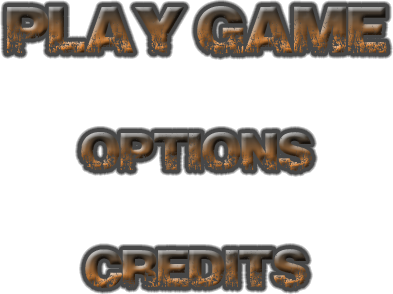
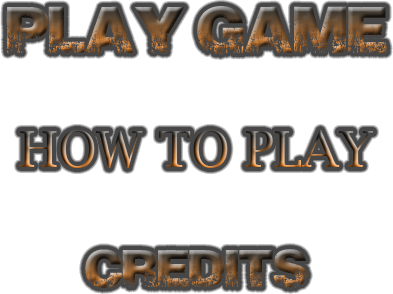
Not working how to page. Something is causing a crash..

Changed region(s): [[0.0305, 0.398, 0.9771, 0.6122]]

diff --git a/wsTotal/TotalAnnihilationRoadRage/src/com/totalannihilationroadrage/HowToScreen.java b/wsTotal/TotalAnnihilationRoadRage/src/com/totalannihilationroadrage/HowToScreen.java
@@ -1,0 +1,67 @@
+package com.totalannihilationroadrage;
+
+import com.framework.Game;
+import com.framework.Graphics;
+import com.framework.Input;
+import com.framework.Screen;
+
+import java.util.ArrayList;
+import java.util.List;
+import java.util.Random;
+
+/**
+ * Created by Brandon on 2014-06-27.
+ */
+
+public class HowToScreen extends Screen {
+    public HowToScreen(Game game) {
+        super(game);
+    }
+
+    @Override
+    public void update(float deltaTime) {
+        List<Input.TouchEvent> touchEvents = game.getInput().getTouchEvents();
+        game.getInput().getKeyEvents();
+
+        int len = touchEvents.size();
+        for(int i = 0; i < len; i++) {
+            Input.TouchEvent event = touchEvents.get(i);
+            if(event.type == Input.TouchEvent.TOUCH_UP) {
+                if(inBounds(event, 1738, 1002, 127, 71) ) {
+
+                    return;
+                }
+            }
+        }
+    }
+
+    private boolean inBounds(Input.TouchEvent event, int x, int y, int width, int height) {
+        if(event.x > x && event.x < x + width - 1 &&
+                event.y > y && event.y < y + height - 1)
+            return true;
+        else
+            return false;
+    }
+
+    @Override
+    public void present(float deltaTime) {
+        Graphics g = game.getGraphics();
+        g.drawPixmap(Assets.howToScreen, 0, 0);
+        g.drawPixmap(Assets.nextpage, 1738, 1002);
+    }
+
+    @Override
+    public void pause() {
+
+    }
+
+    @Override
+    public void resume() {
+
+    }
+
+    @Override
+    public void dispose() {
+
+    }
+}

diff --git a/wsTotal/TotalAnnihilationRoadRage/src/com/totalannihilationroadrage/LoadingScreen.java b/wsTotal/TotalAnnihilationRoadRage/src/com/totalannihilationroadrage/LoadingScreen.java
@@ -12,11 +12,14 @@ public class LoadingScreen extends Screen {
 
     public void update(float deltaTime) {
         Graphics g = game.getGraphics();
-        Assets.background = g.newPixmap("Titlescreen1920x1080.png", PixmapFormat.RGB565);
+        Assets.background = g.newPixmap("Titlescreen1920x1080.png", PixmapFormat.ARGB4444);
         Assets.mainMenu = g.newPixmap("buttons2.png", PixmapFormat.ARGB4444);
         Assets.overWorldUI = g.newPixmap("OverworldUI.png", PixmapFormat.ARGB4444);
-        Assets.gameOver = g.newPixmap("gameover.png", PixmapFormat.RGB565);
+        Assets.gameOver = g.newPixmap("gameover.png", PixmapFormat.ARGB4444);
         Assets.gameOvermenu = g.newPixmap("mainmenu.png", PixmapFormat.ARGB4444);
+        Assets.howToScreen = g.newPixmap("howToScreen1.png", PixmapFormat.ARGB4444);
+
+        //Assets.nextpage = g.newPixmap("moveToNextPage.png", PixmapFormat.ARGB4444);
         //Assets.logo = g.newPixmap("logo.png", PixmapFormat.ARGB4444);
        // Assets.buttons = g.newPixmap("buttons.png", PixmapFormat.ARGB4444);
         //Assets.help1 = g.newPixmap("help1.png", PixmapFormat.ARGB4444);

diff --git a/wsTotal/TotalAnnihilationRoadRage/src/com/totalannihilationroadrage/MainMenuScreen.java b/wsTotal/TotalAnnihilationRoadRage/src/com/totalannihilationroadrage/MainMenuScreen.java
@@ -29,13 +29,11 @@ public class MainMenuScreen extends Screen {
                         //Assets.click.play(1);
                     return;
                 }
-                /*
+
                 if(inBounds(event, 861, 466 + 68, 393, 92) ) {
-                    //game.setScreen(new HighscoreScreen(game));
-                    //if(Settings.soundEnabled)
-                       // Assets.click.play(1);
-                   // return;
-                }*/
+                    game.setScreen(new HowToScreen(game));
+                   return;
+                }
                 if(inBounds(event, 861, 466 + 136, 393, 200) )
                 {
                     //game.setScreen(new HelpScreen(game));

diff --git a/wsTotal/TotalAnnihilationRoadRage/src/com/totalannihilationroadrage/Assets.java b/wsTotal/TotalAnnihilationRoadRage/src/com/totalannihilationroadrage/Assets.java
@@ -11,6 +11,8 @@ public class Assets
     public static Pixmap pause;
     public static Pixmap gameOver;
     public static Pixmap gameOvermenu;
+    public static Pixmap nextpage;
+    public static Pixmap howToScreen;
 
     public static OverworldTiledMap tmOverWorld;
     public static Pixmap pmOverWorld;
